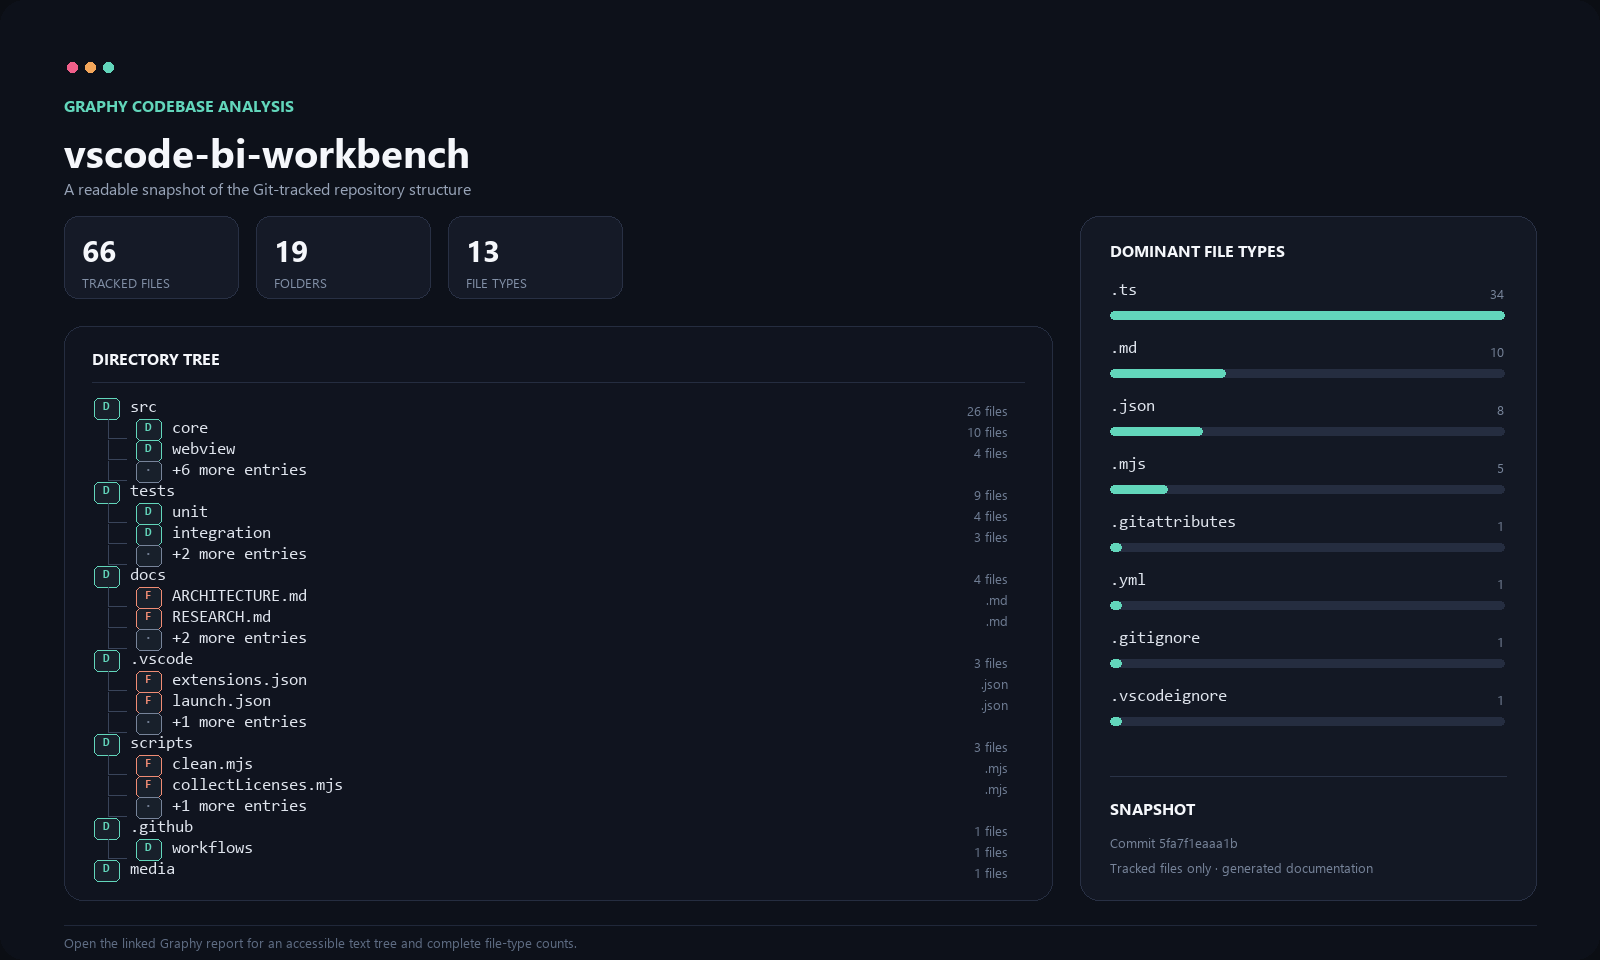
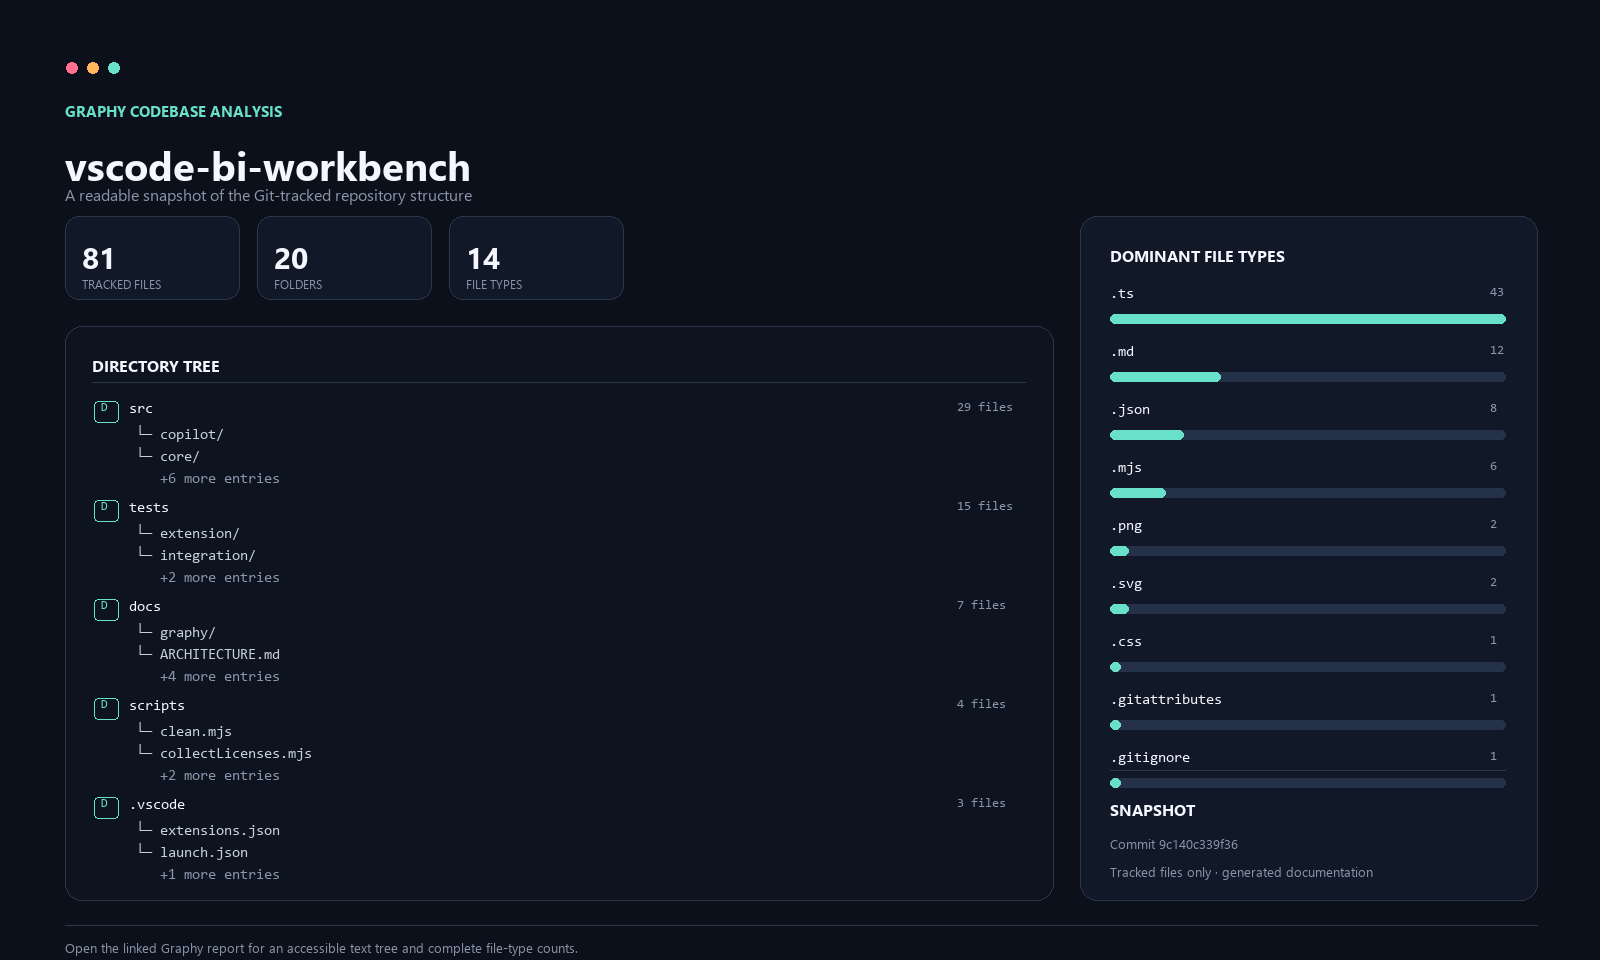
Refresh Graphy map for optimized v0.3

diff --git a/docs/graphy/Graphy.md b/docs/graphy/Graphy.md
@@ -4,28 +4,29 @@ This report is generated from the files tracked by Git. It provides an accessibl
 
 ## File structure summary
 
-- Tracked files: **66**
-- Folders: **19**
-- File types: **13**
-- Source commit: `5fa7f1eaaa1b`
+- Tracked files: **81**
+- Folders: **20**
+- File types: **14**
+- Source commit: `9c140c339f36`
 
 ## File types
 
 | Type | Files |
 |---|---:|
-| `.ts` | 34 |
-| `.md` | 10 |
+| `.ts` | 43 |
+| `.md` | 12 |
 | `.json` | 8 |
-| `.mjs` | 5 |
-| `.gitattributes` | 1 |
-| `.yml` | 1 |
-| `.gitignore` | 1 |
-| `.vscodeignore` | 1 |
-| `no extension` | 1 |
-| `.svg` | 1 |
+| `.mjs` | 6 |
+| `.png` | 2 |
+| `.svg` | 2 |
 | `.css` | 1 |
-| `.txt` | 1 |
+| `.gitattributes` | 1 |
+| `.gitignore` | 1 |
 | `.mts` | 1 |
+| `.txt` | 1 |
+| `.vscodeignore` | 1 |
+| `.yml` | 1 |
+| `no extension` | 1 |
 
 ## Directory tree
 
@@ -38,43 +39,53 @@ vscode-bi-workbench/
 │   ├── extensions.json
 │   ├── launch.json
 │   └── tasks.json
-├── docs/  (4 files)
+├── docs/  (7 files)
+│   ├── graphy/  (2 files)
+│   │   ├── Graphy.md
+│   │   └── overview.png
 │   ├── ARCHITECTURE.md
+│   ├── COMPLETION_AUDIT.md
 │   ├── RESEARCH.md
 │   ├── ROADMAP.md
 │   └── UI_SPEC.md
-├── media/  (1 files)
+├── media/  (3 files)
+│   ├── bi-workbench-logo.png
+│   ├── bi-workbench-logo.svg
 │   └── bi-workbench.svg
 ├── schemas/  (1 files)
 │   └── project.schema.json
-├── scripts/  (3 files)
+├── scripts/  (4 files)
 │   ├── clean.mjs
 │   ├── collectLicenses.mjs
-│   └── ensureArtifacts.mjs
-├── src/  (26 files)
+│   ├── ensureArtifacts.mjs
+│   └── writeChecksum.mjs
+├── src/  (29 files)
 │   ├── copilot/  (3 files)
 │   │   ├── context.ts
 │   │   ├── participant.ts
 │   │   └── tools.ts
-│   ├── core/  (10 files)
+│   ├── core/  (11 files)
 │   │   ├── duckdbEngine.ts
 │   │   ├── exportService.ts
 │   │   ├── importService.ts
 │   │   ├── logger.ts
 │   │   ├── modelService.ts
+│   │   ├── powerBiExportService.ts
 │   │   ├── projectManager.ts
 │   │   ├── projectStore.ts
 │   │   ├── reportService.ts
 │   │   ├── sql.ts
 │   │   └── transformationService.ts
-│   ├── shared/  (3 files)
+│   ├── shared/  (4 files)
 │   │   ├── messages.ts
+│   │   ├── presentation.ts
 │   │   ├── project.ts
 │   │   └── state.ts
 │   ├── test/  (1 files)
 │   │   └── runExtensionTests.ts
-│   ├── ui/  (3 files)
+│   ├── ui/  (4 files)
 │   │   ├── extensionController.ts
+│   │   ├── powerBiExportUi.ts
 │   │   ├── projectTrees.ts
 │   │   └── workbenchPanel.ts
 │   ├── webview/  (4 files)
@@ -84,18 +95,24 @@ vscode-bi-workbench/
 │   │   └── styles.css
 │   ├── extension.ts
 │   └── types.d.ts
-├── tests/  (9 files)
+├── tests/  (15 files)
 │   ├── extension/  (1 files)
 │   │   └── suite.ts
-│   ├── integration/  (3 files)
+│   ├── integration/  (6 files)
 │   │   ├── engine.test.ts
 │   │   ├── imports.test.ts
-│   │   └── projectManager.test.ts
-│   ├── ui/  (1 files)
+│   │   ├── powerBiExport.test.ts
+│   │   ├── projectManager.test.ts
+│   │   ├── projectStore.test.ts
+│   │   └── relationshipFilters.test.ts
+│   ├── ui/  (2 files)
+│   │   ├── main.test.ts
 │   │   └── render.test.ts
-│   └── unit/  (4 files)
+│   └── unit/  (6 files)
+│       ├── copilotContext.test.ts
 │       ├── export.test.ts
 │       ├── messages.test.ts
+│       ├── powerBiExport.test.ts
 │       ├── project.test.ts
 │       └── sql.test.ts
 ├── .gitattributes

diff --git a/README.md b/README.md
@@ -30,7 +30,7 @@
 <!-- graphy-map:start -->
 ## Graphy codebase view
 
-[![Graphy codebase view of vscode-bi-workbench showing 66 tracked files, 19 folders, dominant file types and the main areas src, tests, docs, .vscode, scripts.](docs/graphy/overview.png)](docs/graphy/Graphy.md)
+[![Graphy codebase view of vscode-bi-workbench showing 81 tracked files, 20 folders, dominant file types and the main areas src, tests, docs, scripts, .vscode.](docs/graphy/overview.png)](docs/graphy/Graphy.md)
 
 *Tracked repository structure: files, folders, dominant extensions and a readable directory preview.*
 
